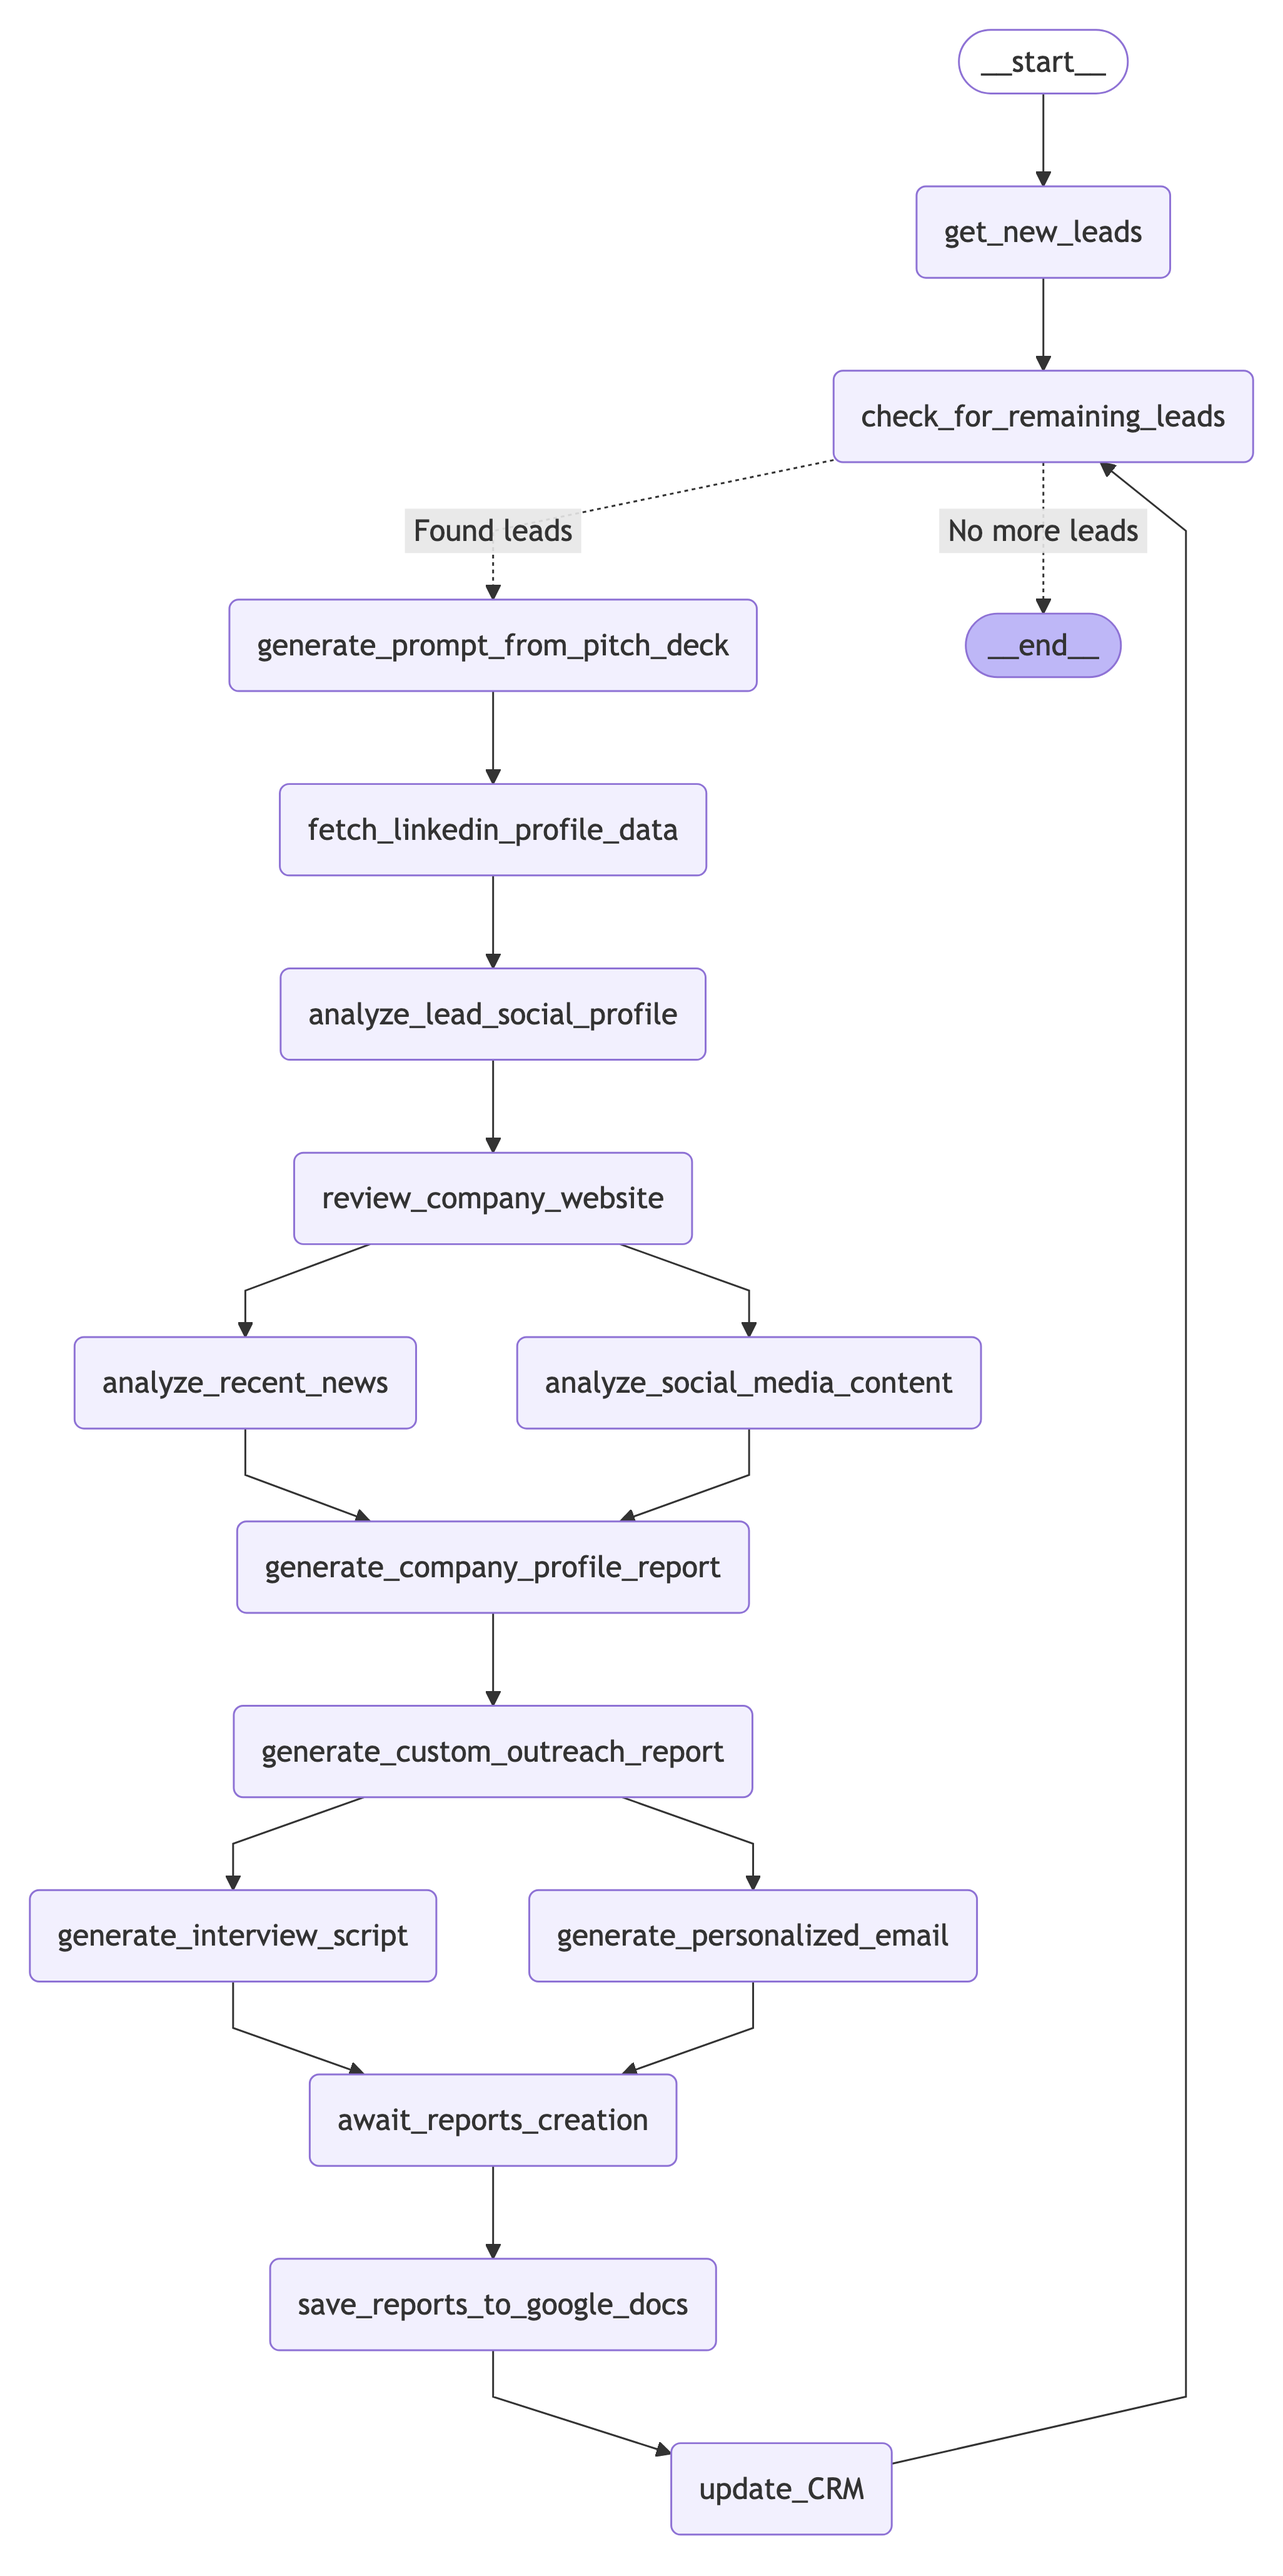
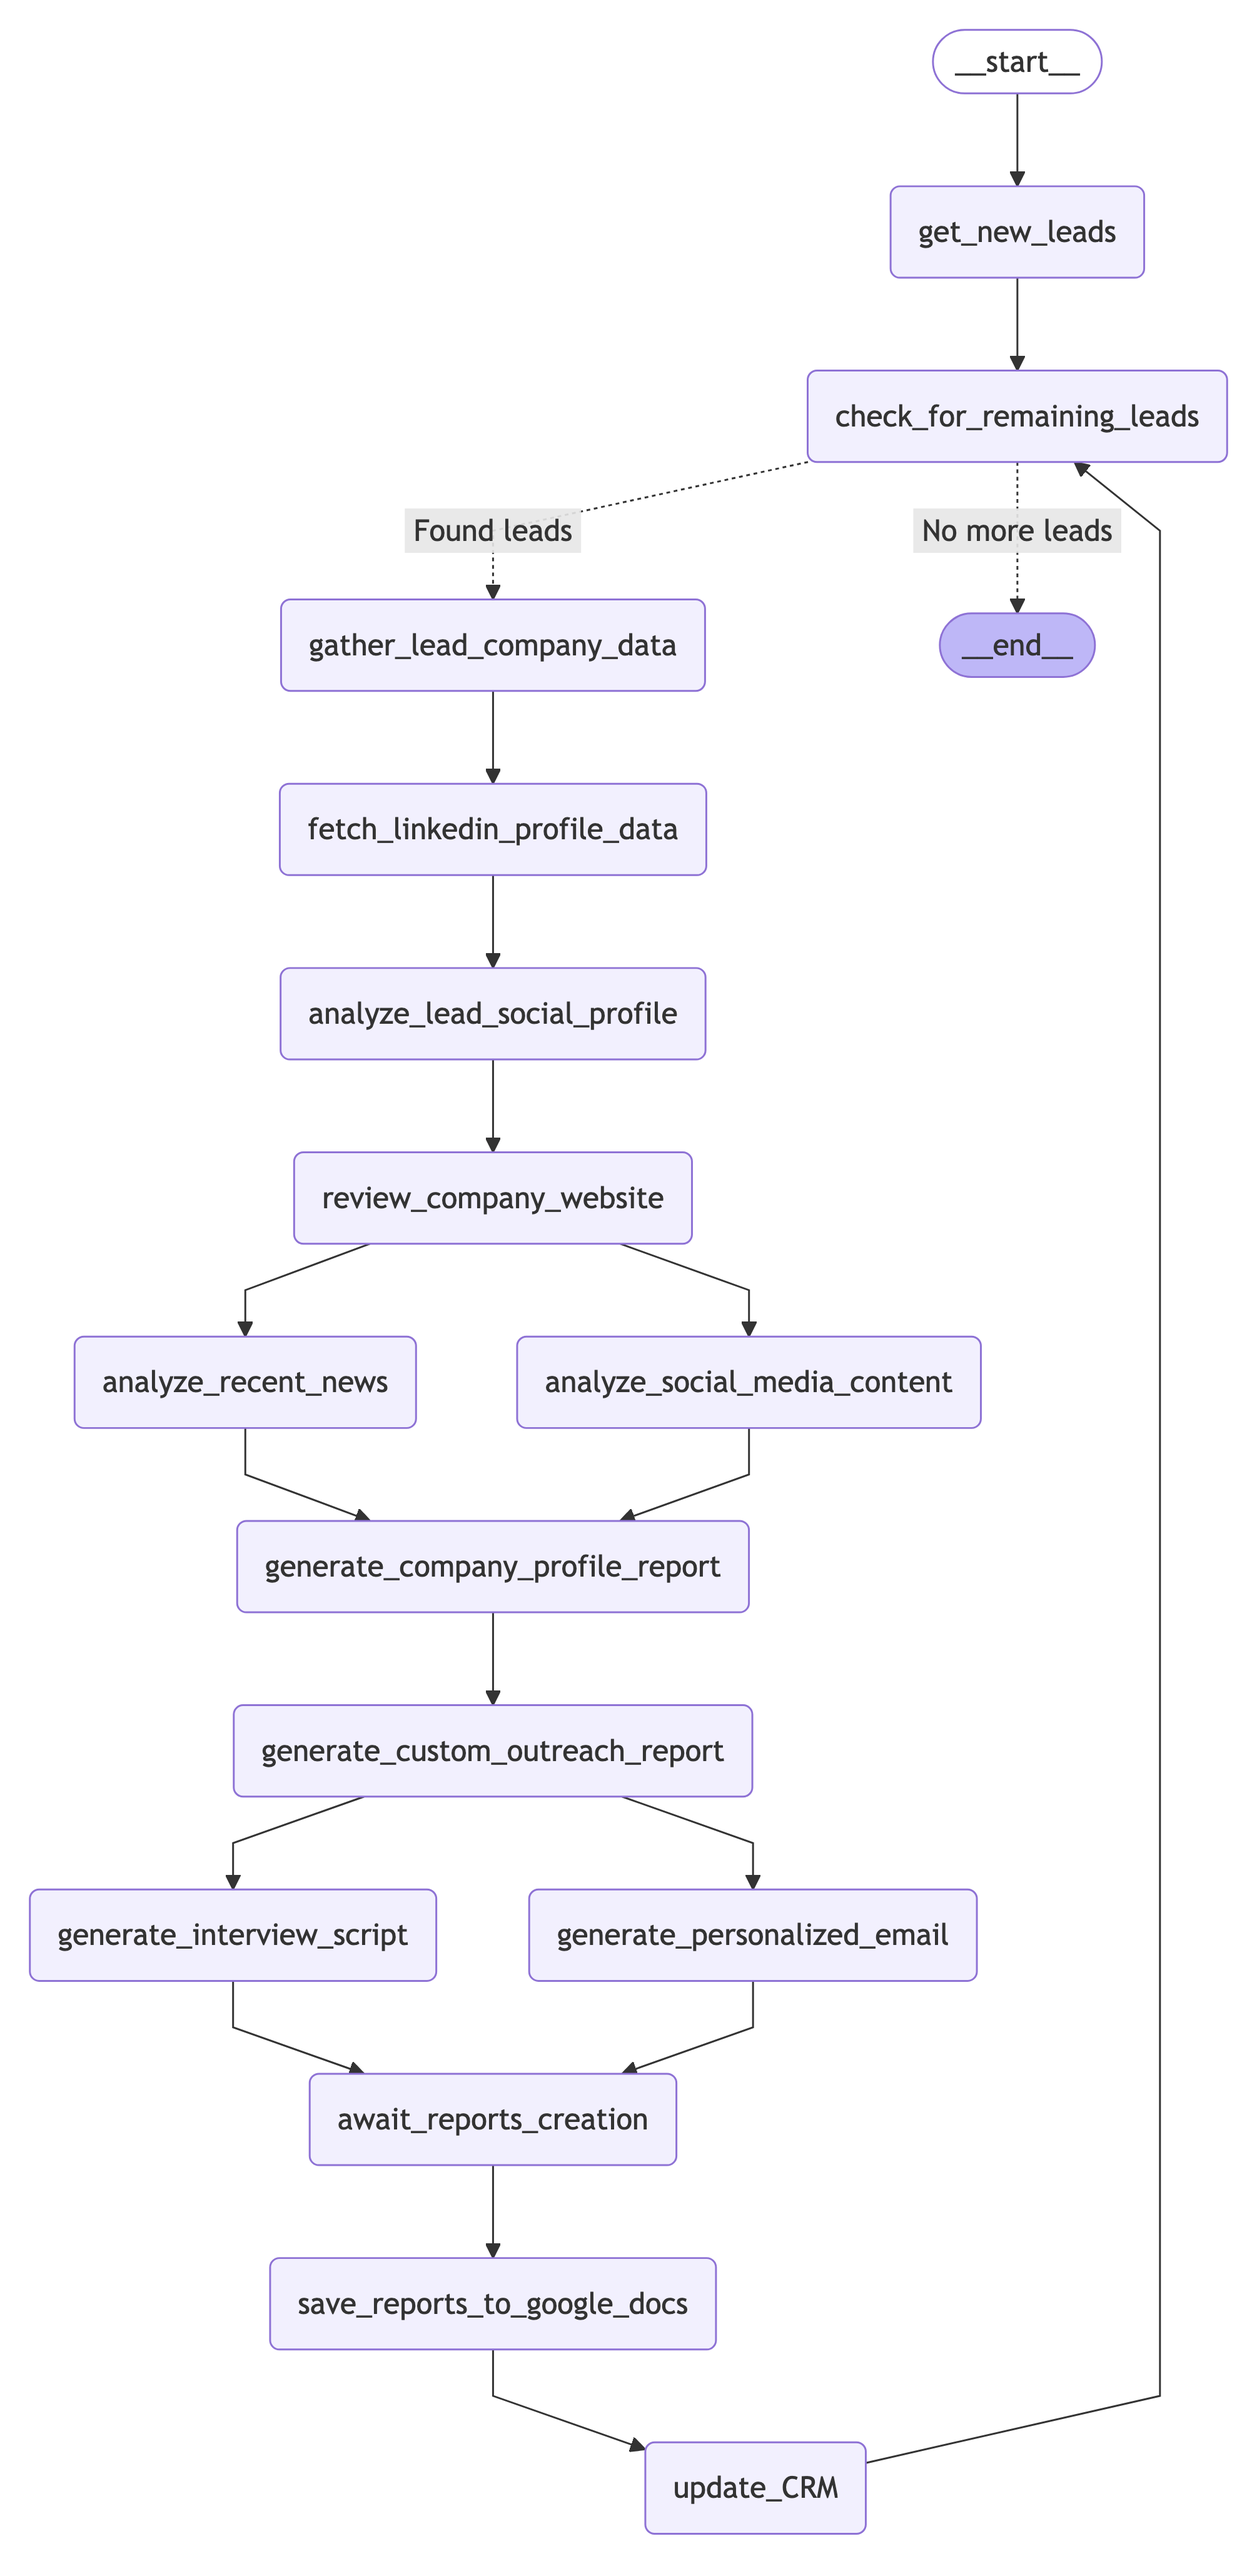
Fix bugs, update workflow

diff --git a/src/nodes.py b/src/nodes.py
@@ -374,7 +374,7 @@ class OutReachAutomationNodes:
         
         # Get reports from manager
         general_lead_search_report = self.report_manager.get_report("General Lead Research Report")
-        global_research_report = self.report_manager.get_report("Global Lead Analysis Report")
+        company_profile_report = self.report_manager.get_report("Company Profile Report")
         
         # Get relevant case study
         case_study_report = fetch_similar_case_study(general_lead_search_report)
@@ -382,7 +382,7 @@ class OutReachAutomationNodes:
         inputs = f"""
         **Research Report:**
 
-        {global_research_report}
+        {company_profile_report}
 
         ---
 
@@ -512,7 +512,7 @@ class OutReachAutomationNodes:
         print(Fore.YELLOW + "----- Generating interview script -----\n" + Style.RESET_ALL)
         
         # Load reports and company data
-        global_research_report = self.report_manager.get_report("Global Lead Analysis Report")
+        company_profile_report = self.report_manager.get_report("Company Profile Report")
         
         # Prepare data for SPIN questions
         our_company = state["our_company_data"]
@@ -532,7 +532,7 @@ class OutReachAutomationNodes:
         # Generate SPIN questions
         spin_questions = invoke_llm(
             system_prompt=GENERATE_SPIN_QUESTIONS_PROMPT.format(**spin_context),
-            user_message=global_research_report,
+            user_message=company_profile_report,
             model=AI_MODEL
         )
         
@@ -549,7 +549,7 @@ class OutReachAutomationNodes:
         # Combine all inputs for interview script
         inputs = f"""
         # Research Report
-        {global_research_report}
+        {company_profile_report}
 
         # SPIN Questions
         {spin_questions}
